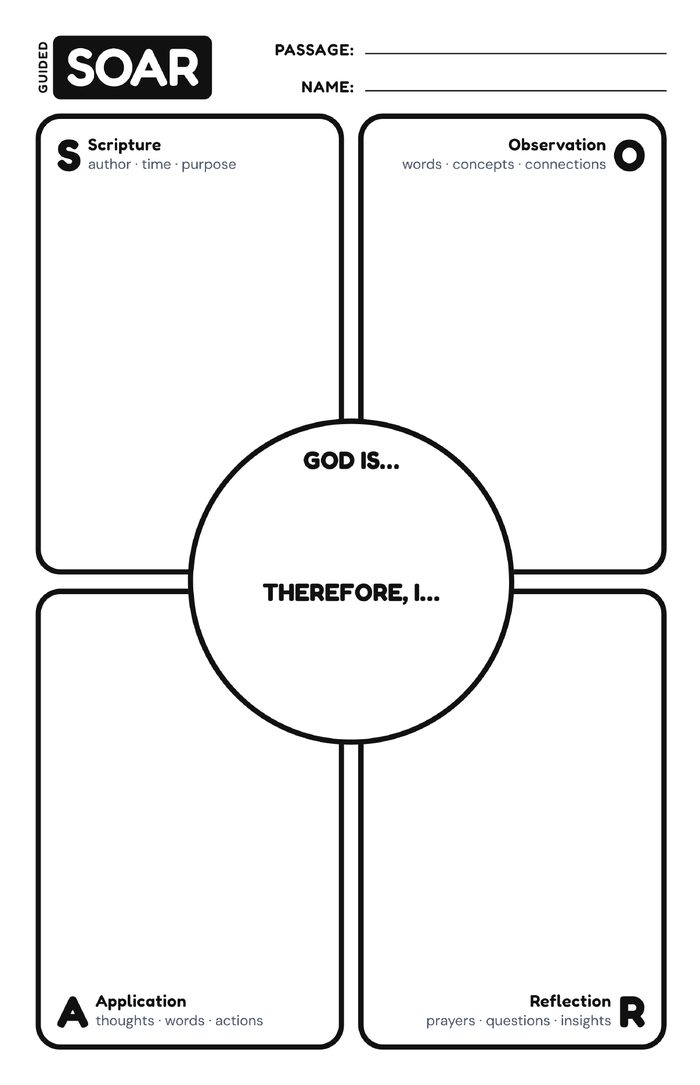
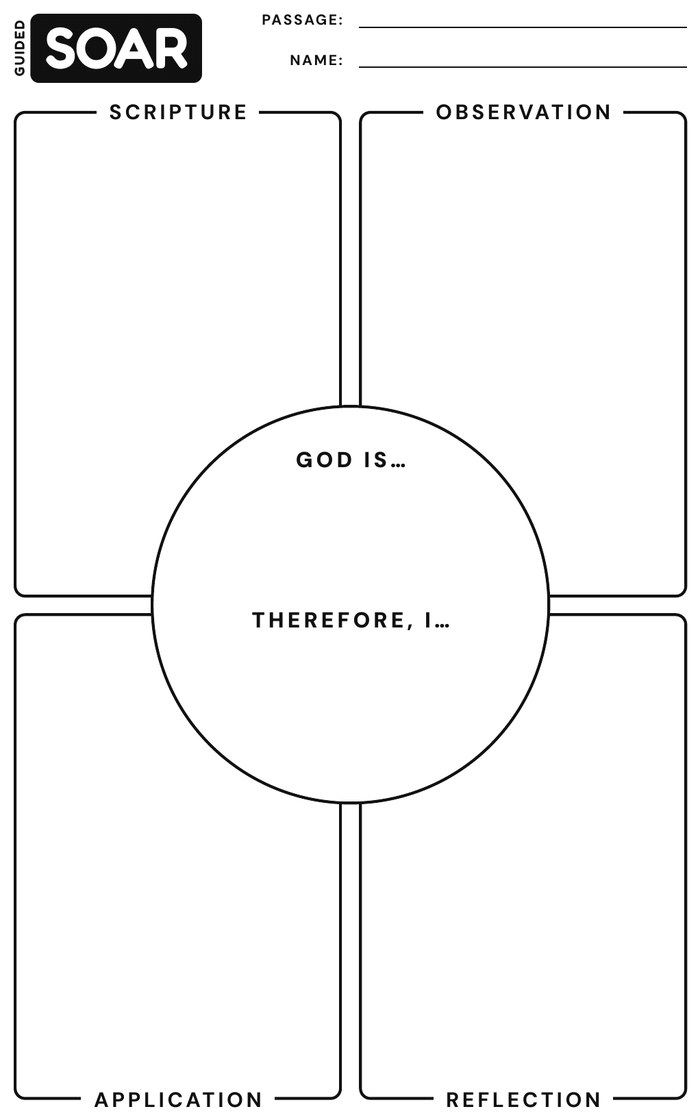
Use the current Guided SOAR student template and leader guide; remap highlights
Claude-Session: https://claude.ai/code/session_01CWSqh8TCyHWequKx4oL8yr

diff --git a/index.html b/index.html
@@ -1912,12 +1912,12 @@ a.tile { text-decoration: none; }
                 <img class="hl-back hl-back-1" src="case/guided-soar/soar-card-guided.jpg" alt="" aria-hidden="true" />
                 <img class="hl-back hl-back-2" src="case/guided-soar/soar-card-blank.jpg" alt="" aria-hidden="true" />
                 <div class="hl-card">
-                  <img src="case/guided-soar/soar-card-blank.jpg" alt="Blank Guided SOAR student card with Scripture, Observation, Application and Reflection corners around a center circle." />
-                  <span class="hl-box gap-k" data-i="1" style="left:5.1%;top:10.6%;width:43.7%;height:42.1%;-webkit-mask:radial-gradient(ellipse 54% 36.1% at 102.7% 99.3%,transparent 98%,#000 100%);mask:radial-gradient(ellipse 54% 36.1% at 102.7% 99.3%,transparent 98%,#000 100%)"></span>
-                  <span class="hl-box gap-s" data-i="2" style="left:51.1%;top:10.6%;width:43.9%;height:42.1%;-webkit-mask:radial-gradient(ellipse 53.8% 36.1% at -2.5% 99.3%,transparent 98%,#000 100%);mask:radial-gradient(ellipse 53.8% 36.1% at -2.5% 99.3%,transparent 98%,#000 100%)"></span>
-                  <span class="hl-box gap-s hl-circle" data-i="2" style="left:26.9%;top:38.5%;width:46.1%;height:29.7%"></span>
-                  <span class="hl-box gap-m" data-i="3" style="left:5.1%;top:54.4%;width:43.7%;height:42.2%;-webkit-mask:radial-gradient(ellipse 54% 36% at 102.7% -4.7%,transparent 98%,#000 100%);mask:radial-gradient(ellipse 54% 36% at 102.7% -4.7%,transparent 98%,#000 100%)"></span>
-                  <span class="hl-box gap-h" data-i="4" style="left:51.1%;top:54.4%;width:43.9%;height:42.2%;-webkit-mask:radial-gradient(ellipse 53.8% 36% at -2.5% -4.7%,transparent 98%,#000 100%);mask:radial-gradient(ellipse 53.8% 36% at -2.5% -4.7%,transparent 98%,#000 100%)"></span>
+                  <img src="case/guided-soar/soar-card-blank.jpg" alt="Blank Guided SOAR student card with Scripture, Observation, Application and Reflection corners around a center circle." width="700" height="1120" />
+                  <span class="hl-box gap-k" data-i="1" style="left:1.96%;top:9.97%;width:46.77%;height:43.3%;-webkit-mask:radial-gradient(ellipse 62.1% 41.9% at 102.7% 101.5%,transparent 98%,#000 100%);mask:radial-gradient(ellipse 62.1% 41.9% at 102.7% 101.5%,transparent 98%,#000 100%)"></span>
+                  <span class="hl-box gap-s" data-i="2" style="left:51.27%;top:9.97%;width:46.77%;height:43.3%;-webkit-mask:radial-gradient(ellipse 62.1% 41.9% at -2.7% 101.5%,transparent 98%,#000 100%);mask:radial-gradient(ellipse 62.1% 41.9% at -2.7% 101.5%,transparent 98%,#000 100%)"></span>
+                  <span class="hl-box gap-s hl-circle" data-i="2" style="left:21.53%;top:36.14%;width:56.95%;height:35.6%"></span>
+                  <span class="hl-box gap-m" data-i="3" style="left:1.96%;top:54.74%;width:46.77%;height:43.43%;-webkit-mask:radial-gradient(ellipse 62.1% 41.8% at 102.7% -1.8%,transparent 98%,#000 100%);mask:radial-gradient(ellipse 62.1% 41.8% at 102.7% -1.8%,transparent 98%,#000 100%)"></span>
+                  <span class="hl-box gap-h" data-i="4" style="left:51.27%;top:54.74%;width:46.77%;height:43.43%;-webkit-mask:radial-gradient(ellipse 62.1% 41.8% at -2.7% -1.8%,transparent 98%,#000 100%);mask:radial-gradient(ellipse 62.1% 41.8% at -2.7% -1.8%,transparent 98%,#000 100%)"></span>
                 </div>
               </div>
             </figure>
@@ -1932,7 +1932,7 @@ a.tile { text-decoration: none; }
           <h3 class="clear-title">For the leaders</h3>
           <p>Leaders can’t model what they haven’t practiced. They get a guided card with questions for every corner, a five-minute prep each week, and training in Dwell, a five-step way to study Scripture.</p>
           <div class="cs-trio">
-            <figure class="case-figure"><img src="case/guided-soar/soar-card-guided.jpg" alt="Guided SOAR leader guide with prompts in every corner." loading="lazy" width="700" height="1085" /><figcaption>Leader guide</figcaption></figure>
+            <figure class="case-figure"><img src="case/guided-soar/soar-card-guided.jpg" alt="Guided SOAR leader guide with prompts in every corner." loading="lazy" width="700" height="1120" /><figcaption>Leader guide</figcaption></figure>
             <figure class="case-figure"><img src="case/guided-soar/leader-prep.jpg" alt="Phone screen of a weekly leader prep page: Take 5 minutes to prep for Mark 1:1-20 before Sunday." loading="lazy" width="585" height="996" /><figcaption>Weekly prep</figcaption></figure>
             <figure class="case-figure"><img src="projects/dwell-front.png" alt="Front of the Dwell bookmark showing the study steps." loading="lazy" /><figcaption>Dwell training</figcaption></figure>
           </div>
